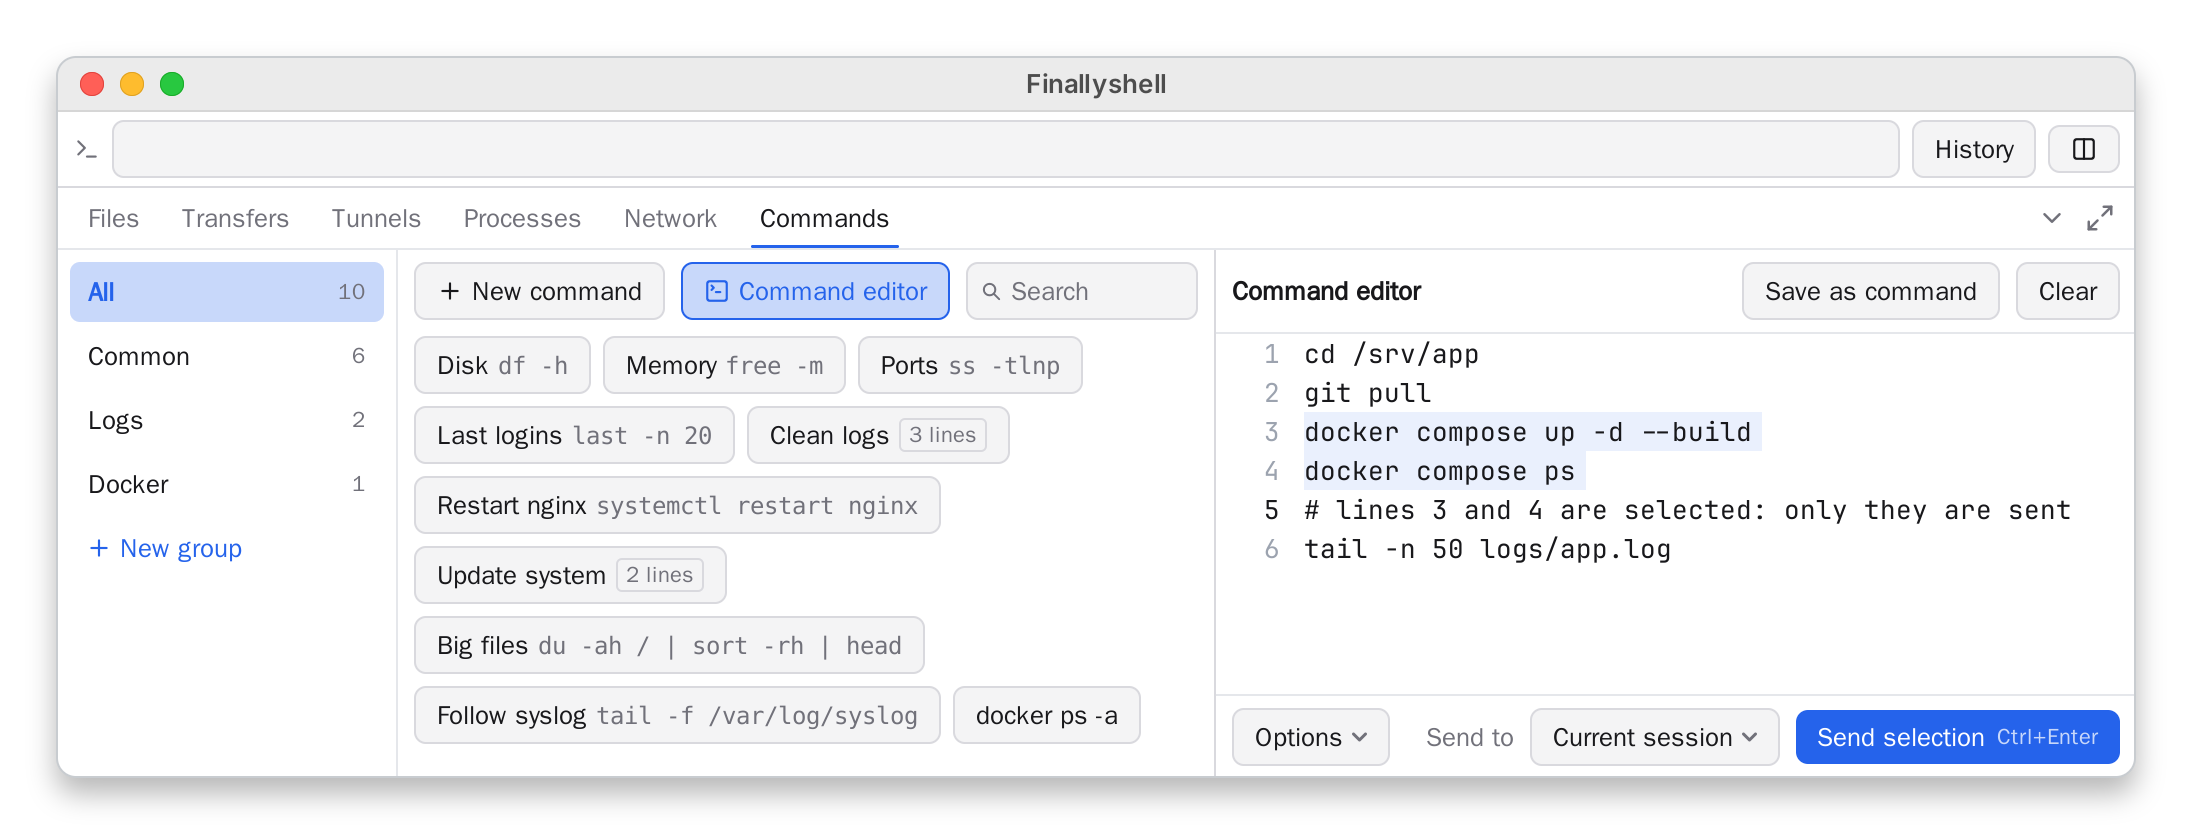
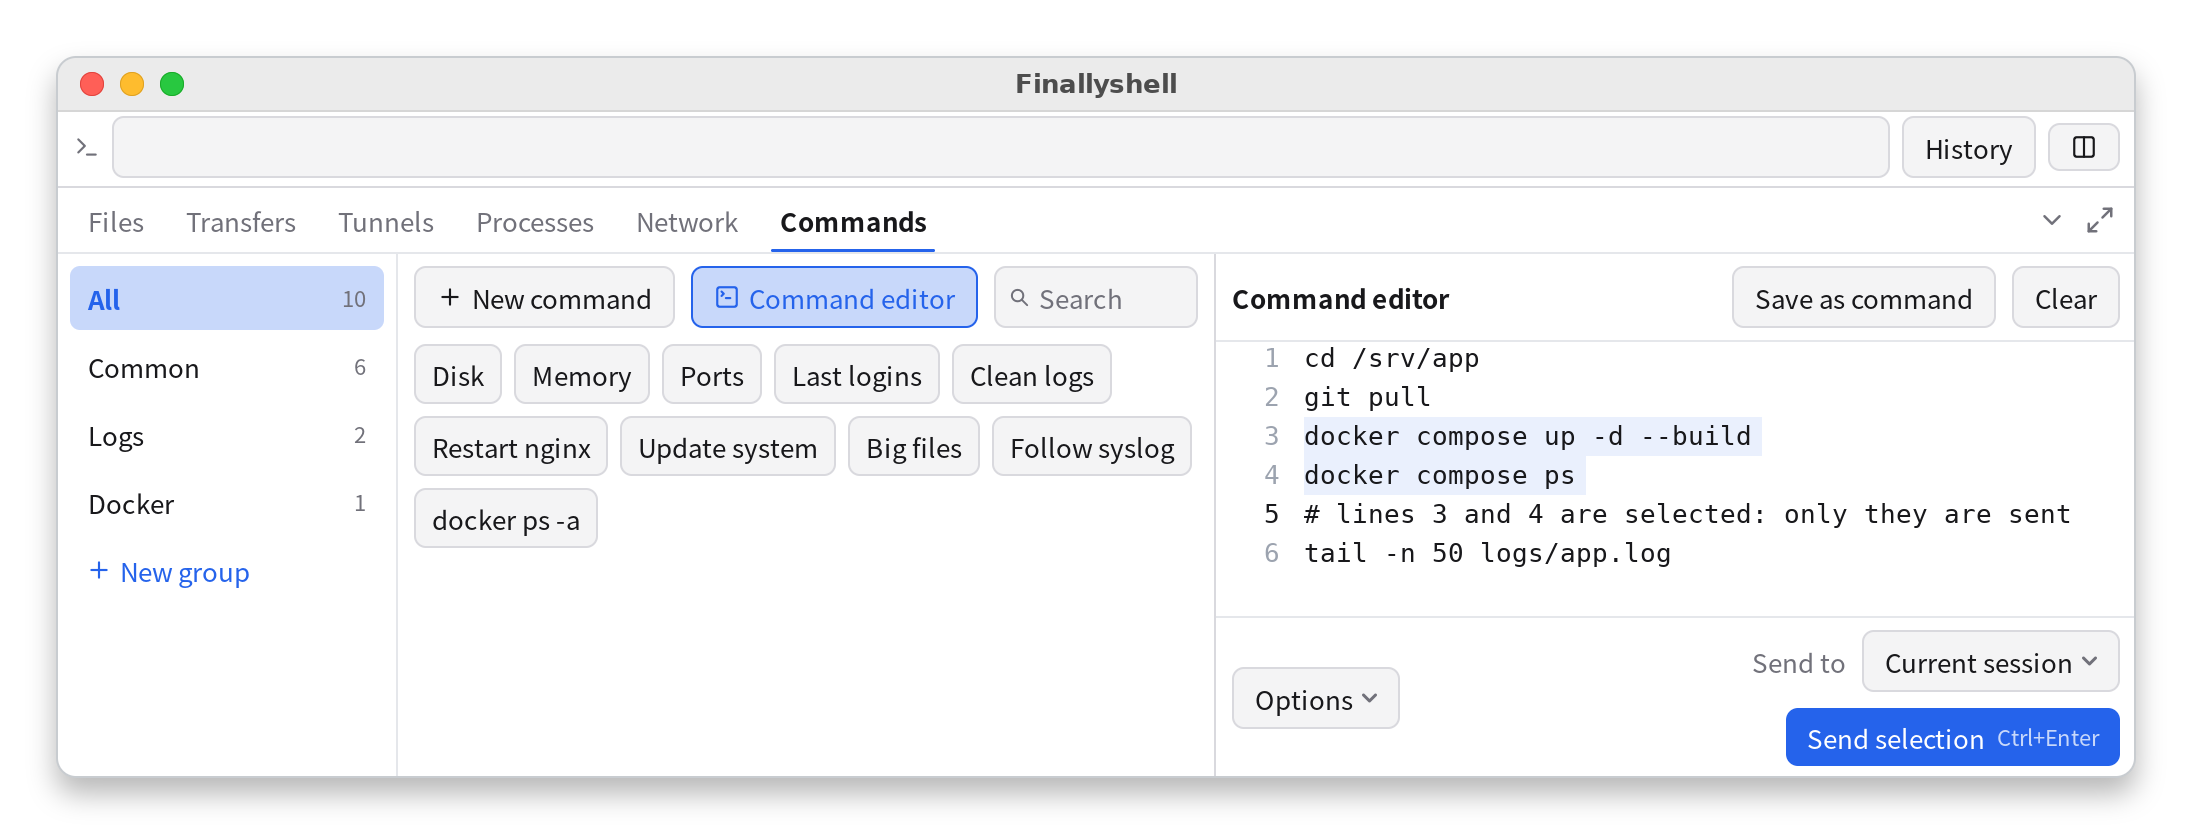
fix(app): show saved quick commands as single-line buttons

diff --git a/internal/app/quickcmds_test.go b/internal/app/quickcmds_test.go
@@ -83,7 +83,7 @@ func TestQuickCommandsSend(t *testing.T) {
 	a, p, s, conn, tt := barTerm(t)
 	demoQuick(a, false)
 	quickTab(t, tt)
-	if !tt.HasText("Disk") || !tt.HasText("Common") || !tt.HasText(locales.QuickLines(3)) || !tt.HasText("df -h") {
+	if !tt.HasText("Disk") || !tt.HasText("Common") || !tt.HasText("docker ps -a") || tt.HasText("df -h") {
 		t.Fatalf("tab: %q", tt.Texts())
 	}
 	saveShot(t, tt, "quick-commands-en.png")
@@ -136,7 +136,7 @@ func TestQuickCommandsSend(t *testing.T) {
 	}
 	p.SetLocale("zh-Hans")
 	tt.Frame()
-	if !tt.HasText("命令") || !tt.HasText(locales.QuickLines(3)) {
+	if !tt.HasText("命令") || !tt.HasText("搜索命令") {
 		t.Errorf("Chinese: %q", tt.Texts())
 	}
 	p.SetLocale("en")
@@ -179,6 +179,95 @@ func TestQuickCommandsDisabled(t *testing.T) {
 	}
 	saveShot(t, tt, "quick-commands-disabled-en.png")
 	_ = p
+}
+
+func TestQuickCommandsSingleLineInRightPanel(t *testing.T) {
+	for _, tc := range []struct{ lang, name string }{
+		{"en", "ProductionApplicationLogArchiveForAllBackendServicesAndScheduledWorkers"},
+		{"zh-Hans", "生产环境所有后端服务和定时任务的日志归档与清理（每晚执行）"},
+	} {
+		t.Run(tc.lang, func(t *testing.T) {
+			a, p, s, _, tt := barTerm(t)
+			p.SetLocale(tc.lang)
+			tt.SetLocale(tc.lang)
+			s.status = statusClosed
+			a.setPanelOnRight(true)
+			store := a.quick()
+			const namedScript = "du -sh /var/log\nls -lh /var/log"
+			const firstLine = "journalctl --unit=backend.service --unit=worker.service --since=yesterday"
+			const unnamedScript = "\n" + firstLine + "\nprintf 'done'"
+			store.AddCommand(&config.QuickCommand{Name: "Logs", Text: namedScript}, "")
+			store.AddCommand(&config.QuickCommand{Name: tc.name, Text: namedScript}, "")
+			store.AddCommand(&config.QuickCommand{Text: unnamedScript}, "")
+			a.bottomTab = tabCommands
+			tt.Frame()
+			short, ok := tt.AccessByRole(ui.RoleButton, "Logs")
+			if !ok || tt.HasText("du -sh /var/log") || tt.HasText("printf 'done'") {
+				t.Fatalf("commands should show only their button labels: %q", tt.Texts())
+			}
+			saveShot(t, tt, "quick-commands-single-line-"+tc.lang+".png")
+			for _, cmd := range []struct{ label, tip string }{
+				{tc.name, tc.name + "\n" + namedScript},
+				{firstLine, unnamedScript},
+			} {
+				button, ok := tt.AccessByRole(ui.RoleButton, cmd.label)
+				b := button.Bounds
+				if !ok || !button.Disabled || b.H != short.Bounds.H || b.X+b.W > winW {
+					t.Fatalf("%q should fit on one line in the right panel: %+v", cmd.label, button)
+				}
+				tt.Move(b.X+b.W/2, b.Y+b.H/2)
+				tt.Advance(time.Second)
+				if !tt.HasText(cmd.tip) {
+					t.Errorf("tooltip for %q should show the full command: %q", cmd.label, tt.Texts())
+				}
+			}
+		})
+	}
+}
+
+func TestQuickCommandsOversizedTooltip(t *testing.T) {
+	a, p, _, _, tt := barTerm(t)
+	for _, lang := range []string{"en", "zh-Hans"} {
+		t.Run(lang, func(t *testing.T) {
+			p.SetLocale(lang)
+			tt.SetLocale(lang)
+			a.setPanelOnRight(true)
+			a.bottomTab = tabCommands
+			a.quickUI.store = config.NewQuickCommands()
+			const name = "Full script"
+			script := strings.Repeat("printf 'preview line'\n", 80) + "printf 'script ending'"
+			a.quick().AddCommand(&config.QuickCommand{Name: name, Text: script}, "")
+			tt.SetSize(winW, 500)
+			tt.Move(0, 0)
+			tt.Frame()
+			button, ok := tt.AccessByRole(ui.RoleButton, name)
+			if !ok {
+				t.Fatalf("missing command: %q", tt.Texts())
+			}
+			b := button.Bounds
+			tt.Move(b.X+b.W/2, b.Y+b.H/2)
+			tt.Advance(time.Second)
+			hint := "Right-click and choose Edit… to see the full command."
+			if lang == "zh-Hans" {
+				hint = "右键单击并选择“编辑…”，查看完整命令。"
+			}
+			r, ok := tt.Find(hint)
+			if !ok || r.Y < 0 || r.Y+r.H > 500 {
+				t.Fatalf("full-command hint at %+v (%v) in the tooltip", r, ok)
+			}
+			saveShot(t, tt, "quick-commands-oversized-tooltip-"+lang+".png")
+			if err := tt.RightClick(name); err != nil {
+				t.Fatal(err)
+			}
+			if err := tt.ChooseMenuItem(locales.QuickEdit()); err != nil {
+				t.Fatal(err)
+			}
+			if ed := a.quickUI.ed; ed == nil || ed.text != script {
+				t.Fatal("the editor should show the complete script")
+			}
+			a.closeWindow(WindowQuickCommand)
+		})
+	}
 }
 
 // New command opens the editor, which adds the command to the group

diff --git a/internal/app/quickcmds.go b/internal/app/quickcmds.go
@@ -465,14 +465,16 @@ func (a *App) quickButtons(c *ui.Context, store *config.QuickCommands, s *Sessio
 	}
 }
 
-// quickButton is cmd's button: its name and, in gray, its one line, or
-// how many lines it has. A click sends it; it drags, and takes a command
-// dropped on it; its context menu has the rest.
+// quickButton shows the command's name or first nonblank line. A click
+// sends it; it drags, and takes a command dropped on it.
 func (a *App) quickButton(c *ui.Context, store *config.QuickCommands, s *Session, live bool, cmd *config.QuickCommand, act *func()) {
-	lines := config.QuickCommandLines(cmd.Text)
 	title := cmd.Title()
-	btn := ui.Button(c.Key(cmd.ID), "").Label(title).Tooltip(cmd.Text).AccessDisabled(!live).
-		MaxWidth(420).MinWidth(0).Border(1, theme.Border).Drag(quickDrag{cmd.ID})
+	tip := cmd.Text
+	if strings.TrimSpace(cmd.Name) != "" {
+		tip = title + "\n" + tip
+	}
+	btn := ui.Button(c.Key(cmd.ID), "").Label(title).Description(cmd.Text).AccessDisabled(!live).
+		MaxWidth(420).MaxWidthPercent(100).MinWidth(0).Padding(4, 8).Border(1, theme.Border).Drag(quickDrag{cmd.ID})
 	switch {
 	case btn.Dragging():
 		btn.Opacity(0.4)
@@ -483,16 +485,9 @@ func (a *App) quickButton(c *ui.Context, store *config.QuickCommands, s *Session
 		btn.Border(1, theme.Accent)
 	}
 	btn.Children(func() {
-		ui.Text(c, title).SingleLine().Ellipsis("…").MinWidth(0).Shrink(1)
-		switch {
-		case len(lines) > 1:
-			ui.Text(c, locales.QuickLines(len(lines))).FontSize(11).TextColor(theme.TextMuted).
-				Padding(0, 4).Border(1, theme.Border).Radius(3).SingleLine().Shrink(0)
-		case len(lines) == 1 && strings.TrimSpace(cmd.Name) != "":
-			ui.Text(c, strings.TrimSpace(lines[0])).Font("monospace").FontSize(12).TextColor(theme.TextMuted).
-				SingleLine().Ellipsis("…").MinWidth(0).Shrink(1)
-		}
+		ui.Text(c, title).SingleLine().MinWidth(0).Shrink(1)
 	})
+	quickCommandTooltip(c, btn, tip)
 	btn.ContextMenu(func(m *ui.Menu) {
 		if m.Item(locales.QuickSend()).Disabled(!live).Chosen() {
 			*act = func() { a.sendQuick(c, s, cmd) }
@@ -548,4 +543,40 @@ func (a *App) quickButton(c *ui.Context, store *config.QuickCommands, s *Session
 	if btn.Clicked() && live {
 		*act = func() { a.sendQuick(c, s, cmd) }
 	}
+}
+
+// quickCommandTooltip leaves room for the command editor hint when the
+// command would extend past the window.
+func quickCommandTooltip(c *ui.Context, button ui.Element, text string) {
+	if text == "" {
+		return
+	}
+	ui.TooltipBase(c, button, func(tip ui.Element) {
+		t := c.Theme()
+		const edge = 4
+		padX, padY, gap := t.Space(2), t.Space(1.25), t.Space(1.5)
+		width, height := c.Size()
+		maxWidth := min(t.Space(120), width-2*edge)
+		font := ui.Font{Family: t.Font, Size: t.FontSize - 1, LineHeight: 1.5}
+		lineHeight := font.Size * font.LineHeight
+		box := button.Bounds()
+		room := max(box.Y, height-box.Y-box.H) - edge - gap - 2*padY
+		maxLines := max(1, int(room/lineHeight))
+		_, textHeight := ui.ShapeText(text, font, maxWidth-2*padX).Size()
+		more := textHeight > float32(maxLines)*lineHeight
+		if more {
+			maxLines = max(1, maxLines-1)
+		}
+
+		tip.MaxWidth(maxWidth).Padding(padY, padX).Radius(t.Space(1.25)).
+			Background(t.Text).TextColor(t.Background).FontSize(font.Size).
+			Shadow(0, 2, 8, 0, ui.RGBA(0, 0, 0, 0.2)).
+			AttachTo(button, ui.AnchorTop, ui.AnchorBottom).AttachEdgeMargin(edge).Margin(0, 0, gap, 0).
+			Children(func() {
+				ui.Text(c, text).FixedLineHeight(lineHeight).MaxLines(maxLines)
+				if more {
+					ui.Text(c, locales.QuickTooltipMore()).FixedLineHeight(lineHeight).SingleLine()
+				}
+			})
+	})
 }

diff --git a/locales/catalog_gen.go b/locales/catalog_gen.go
@@ -8784,14 +8784,14 @@ func (msgs Messages) QuickSearchShort() string {
 	return Catalog.Format(msgs.locale, "quickSearchShort", nil)
 }
 
-// QuickLines says "{count, plural, one {# line} other {# lines}}"
+// QuickTooltipMore says "Right-click and choose Edit… to see the full command."
 // in the language the app shows.
-func QuickLines(count int) string { return In(i18n.Locale()).QuickLines(count) }
+func QuickTooltipMore() string { return In(i18n.Locale()).QuickTooltipMore() }
 
-// QuickLines says "{count, plural, one {# line} other {# lines}}"
+// QuickTooltipMore says "Right-click and choose Edit… to see the full command."
 // in the language of msgs.
-func (msgs Messages) QuickLines(count int) string {
-	return Catalog.Format(msgs.locale, "quickLines", map[string]any{"count": count})
+func (msgs Messages) QuickTooltipMore() string {
+	return Catalog.Format(msgs.locale, "quickTooltipMore", nil)
 }
 
 // QuickSend says "Send"

diff --git a/internal/app/readme_test.go b/internal/app/readme_test.go
@@ -130,7 +130,7 @@ func TestReadmeScreenshots(t *testing.T) {
 				tt.Frame()
 				setCmdText(a, tt, cmdDemo[lang])
 				selectLines(a, tt, 2, 3)
-				if !tt.HasText(locales.QuickNewCommand()) || !tt.HasText("df -h") || !tt.HasText(locales.CmdEditorSendSelection()) {
+				if !tt.HasText(locales.QuickNewCommand()) || !tt.HasText("docker ps -a") || !tt.HasText(locales.CmdEditorSendSelection()) {
 					t.Errorf("no quick commands; texts %q", tt.Texts())
 				}
 				saveShot(t, tt, "readme-quick-commands-"+lang+".png")

diff --git a/docs/zh-CN/features.md b/docs/zh-CN/features.md
@@ -772,7 +772,7 @@ SFTP 每个文件都要来回好几次，传大量小文件的文件夹很慢。
 右下的“命令”页存放快捷命令，相当于 FinalShell 的快捷命令面板：把常用命令存成按钮，点一下就发给当前会话。所有主机共用同一份，保存在 `quickcommands.json` 里（见 [configuration.md](configuration.md#quickcommandsjson)）。
 
 - 左边是分组：“全部”显示所有命令，然后是你的分组，按你排好的顺序，每个分组后面是它的命令数；“新建分组”在原地输入新分组的名称（回车保留，Esc 放弃）。分组的右键菜单可以重命名，或在询问后删除；删除分组时其中的命令会保留，不属于任何分组，显示在“全部”下。
-- 右边是所选分组的命令按钮，一行放不下时换行。按钮显示命令的名称，命令只有一行时在后面用灰色显示命令本身，有多行时显示行数；鼠标悬停显示完整的命令。上面的搜索框按名称和命令内容筛选，不区分大小写。
+- 右边是所选分组的命令按钮，一排放不下时换排。每个按钮只显示一行，有名称时显示名称，名称为空时显示命令的首个非空行，过长的文本以省略号结尾。鼠标悬停可查看命令和名称（如有）。如果提示放不下整条命令，右键单击按钮并选择“编辑…”即可查看全文。上面的搜索框按名称和命令内容筛选，不区分大小写。
 - 点按钮就把命令发给会话，走的是和命令输入框回车一样的路径：用会话的编码发送，文件面板像回车后一样跟随 shell 的目录，执行的每一行都记入这台主机的命令输入框历史。每一行后面都跟一个回车，所以多行命令会逐行执行。关掉“每行发送后按回车”时，最后一行不带回车：它停在提示符后面，等你检查后自己按回车；前面的行仍会执行。在会话那一行里，发送后键盘回到终端。
 - 工具栏里搜索框前面的“发送到”选择按钮发到哪里（显示[命令编辑器](#命令编辑器)时，由它“发送”旁边的“发送到”代替，设置的是同一个目标）：“当前会话”（默认）、“全部会话”（所有已连接的会话），或“选择会话…”：弹出一个列表，每个会话一个复选框，带状态圆点和名称。目标不是当前会话时，它用警告色显示。命令输入框不跟随它，总是发给自己的会话。
   - 每个会话只收到一次（面板行就是它所属的会话，不算另一个）。新标签页和未连接的会话会跳过，其他会话照常收到。
@@ -782,7 +782,7 @@ SFTP 每个文件都要来回好几次，传大量小文件的文件夹很慢。
 - 会话未连接时、在新标签页里、以及在会话未连接的面板行里，按钮显示为灰色，点了也不发送（目标是其他选项时：它的会话都没有连接时）；命令仍然可以新建、编辑和整理。
 - 右键按钮有“发送”“放进命令输入框”（只限一行的命令：填进命令输入框但不发送，键盘也交给它）“编辑…”“复制”（放在它后面，名称为“名称（副本）”）“移到分组”和“删除”（会先询问）。
 - 把按钮拖到另一个按钮上，就移到那个位置；拖到按钮后面的空白处，移到最后；拖到左边的分组上，移进那个分组。
-- “新建命令”在单独的窗口里打开编辑器：名称、分组（新建时是当前显示的分组）、命令（可以多行）和“每行发送后按回车”（默认勾选）。名称留空时按钮显示命令的第一行。“保存”保存；Esc 或“取消”放弃修改。
+- “新建命令”在单独的窗口里打开编辑器：名称、分组（新建时是当前显示的分组）、命令（可以多行）和“每行发送后按回车”（默认勾选）。“保存”保存；Esc 或“取消”放弃修改。
 - “命令”页也可以在单独的标签中打开（见[上面](#底部面板单独成标签)），得到一整块和窗口一样高的命令面板；里面的按钮发给它所属的会话。
 
 暂不支持：带参数的命令、只属于某台主机的命令、同步命令，以及给每条命令设快捷键。

diff --git a/docs/en/features.md b/docs/en/features.md
@@ -1919,10 +1919,12 @@ and kept in `quickcommands.json` (see
   Esc gives it up). A group's context menu renames it or deletes it,
   after asking; its commands are kept, in no group, under "All".
 - The commands of the group chosen are buttons on the right, in rows
-  that wrap. A button shows the command's name and, in gray, the command
-  when it is one line, or how many lines it has; its tooltip is the
-  whole command. The search box above them filters by name and by
-  command, ignoring case.
+  that wrap. Each button displays the name on one line, or the first
+  nonblank command line if the name is empty. Long labels end in an
+  ellipsis. Hover over a button to see the command and its name, if it
+  has one. If the tooltip is too short to show the whole command, right-click
+  the button and choose Edit… to see it. The search box above filters by
+  name and by command, ignoring case.
 - A click sends the command to the session, through the same path as
   the command bar's Enter: in the session's encoding, the file panel
   following the shell's folder as it does after Enter, and each line that
@@ -1964,9 +1966,8 @@ and kept in `quickcommands.json` (see
   into that group.
 - "New command" opens the editor in a window of its own: the name, the
   group (the one shown, for a new command), the command, which can have
-  several lines, and "Press Enter after each line" (on by default). An
-  empty name shows the command's first line instead. Save keeps it; Esc
-  or Cancel gives up the changes.
+  several lines, and "Press Enter after each line" (on by default).
+  Save keeps it; Esc or Cancel gives up the changes.
 - The Commands tab can open in a tab of its own (see
   [above](#bottom-panel-in-a-tab-of-its-own)), for a board of commands
   as high as the window; its buttons send to its session.
